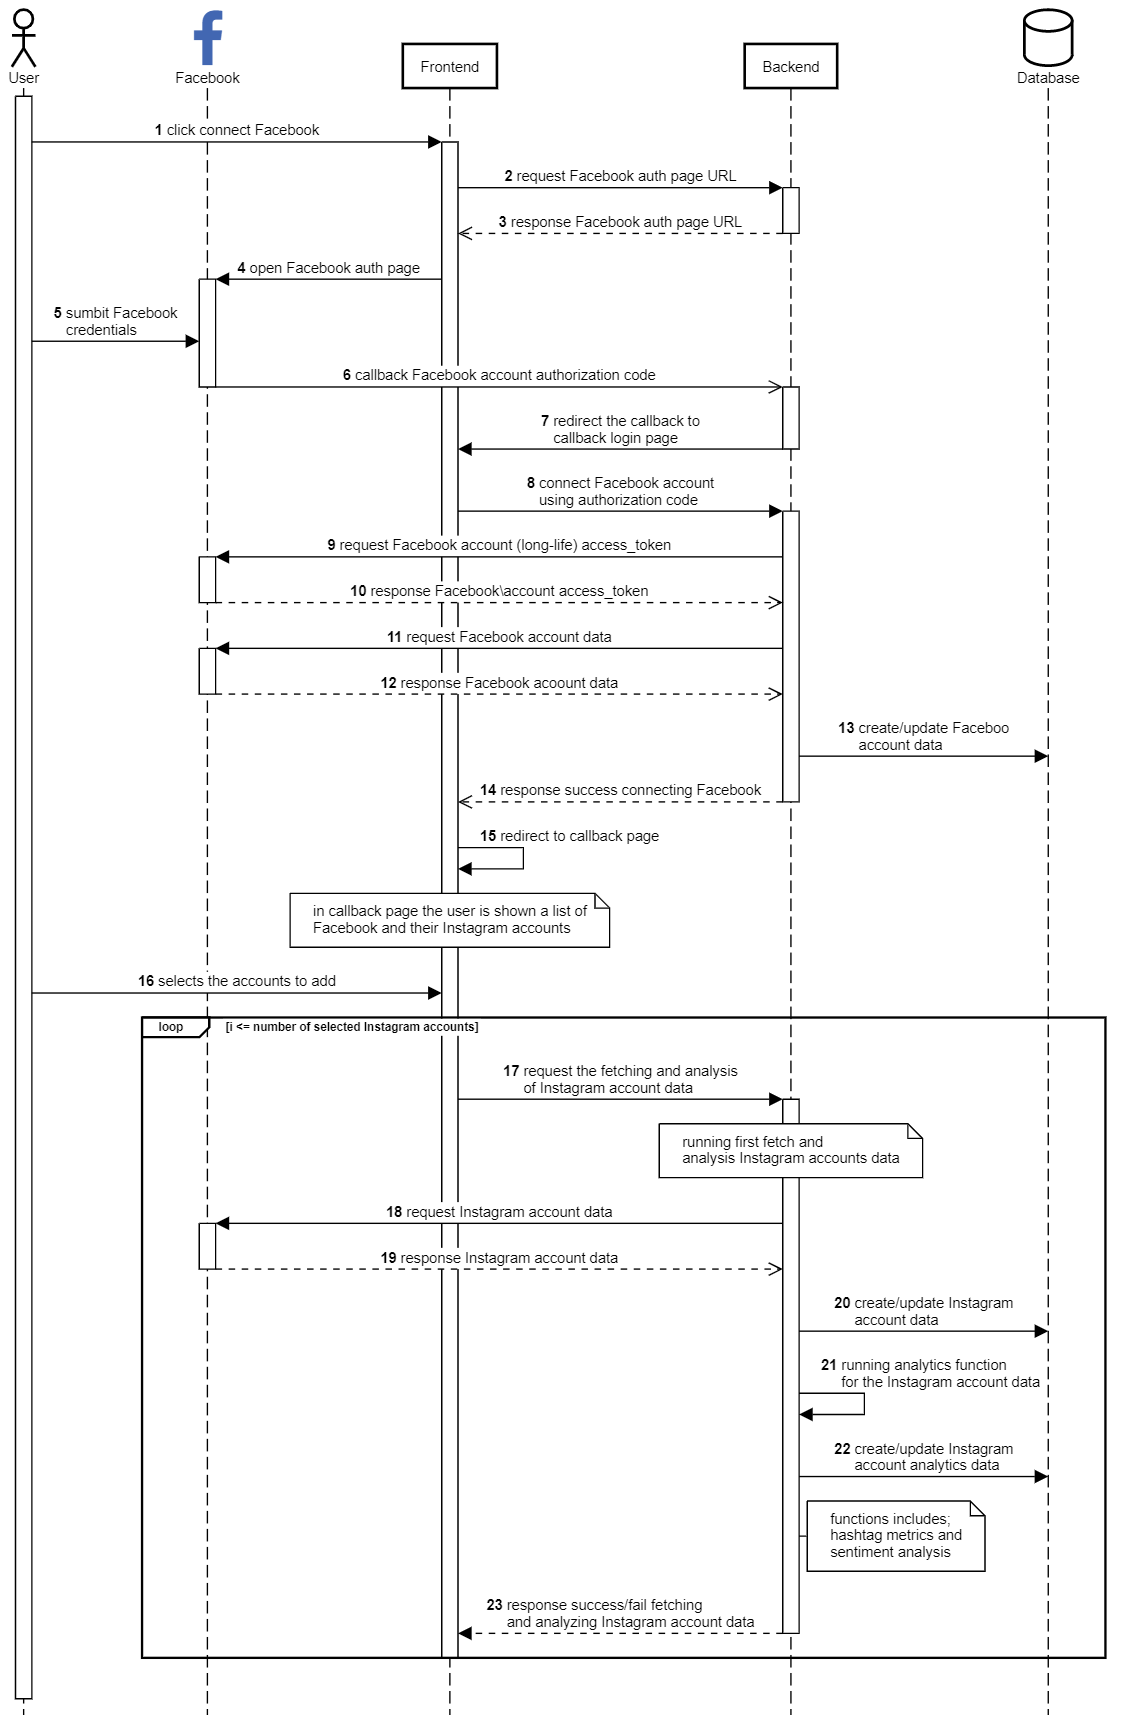
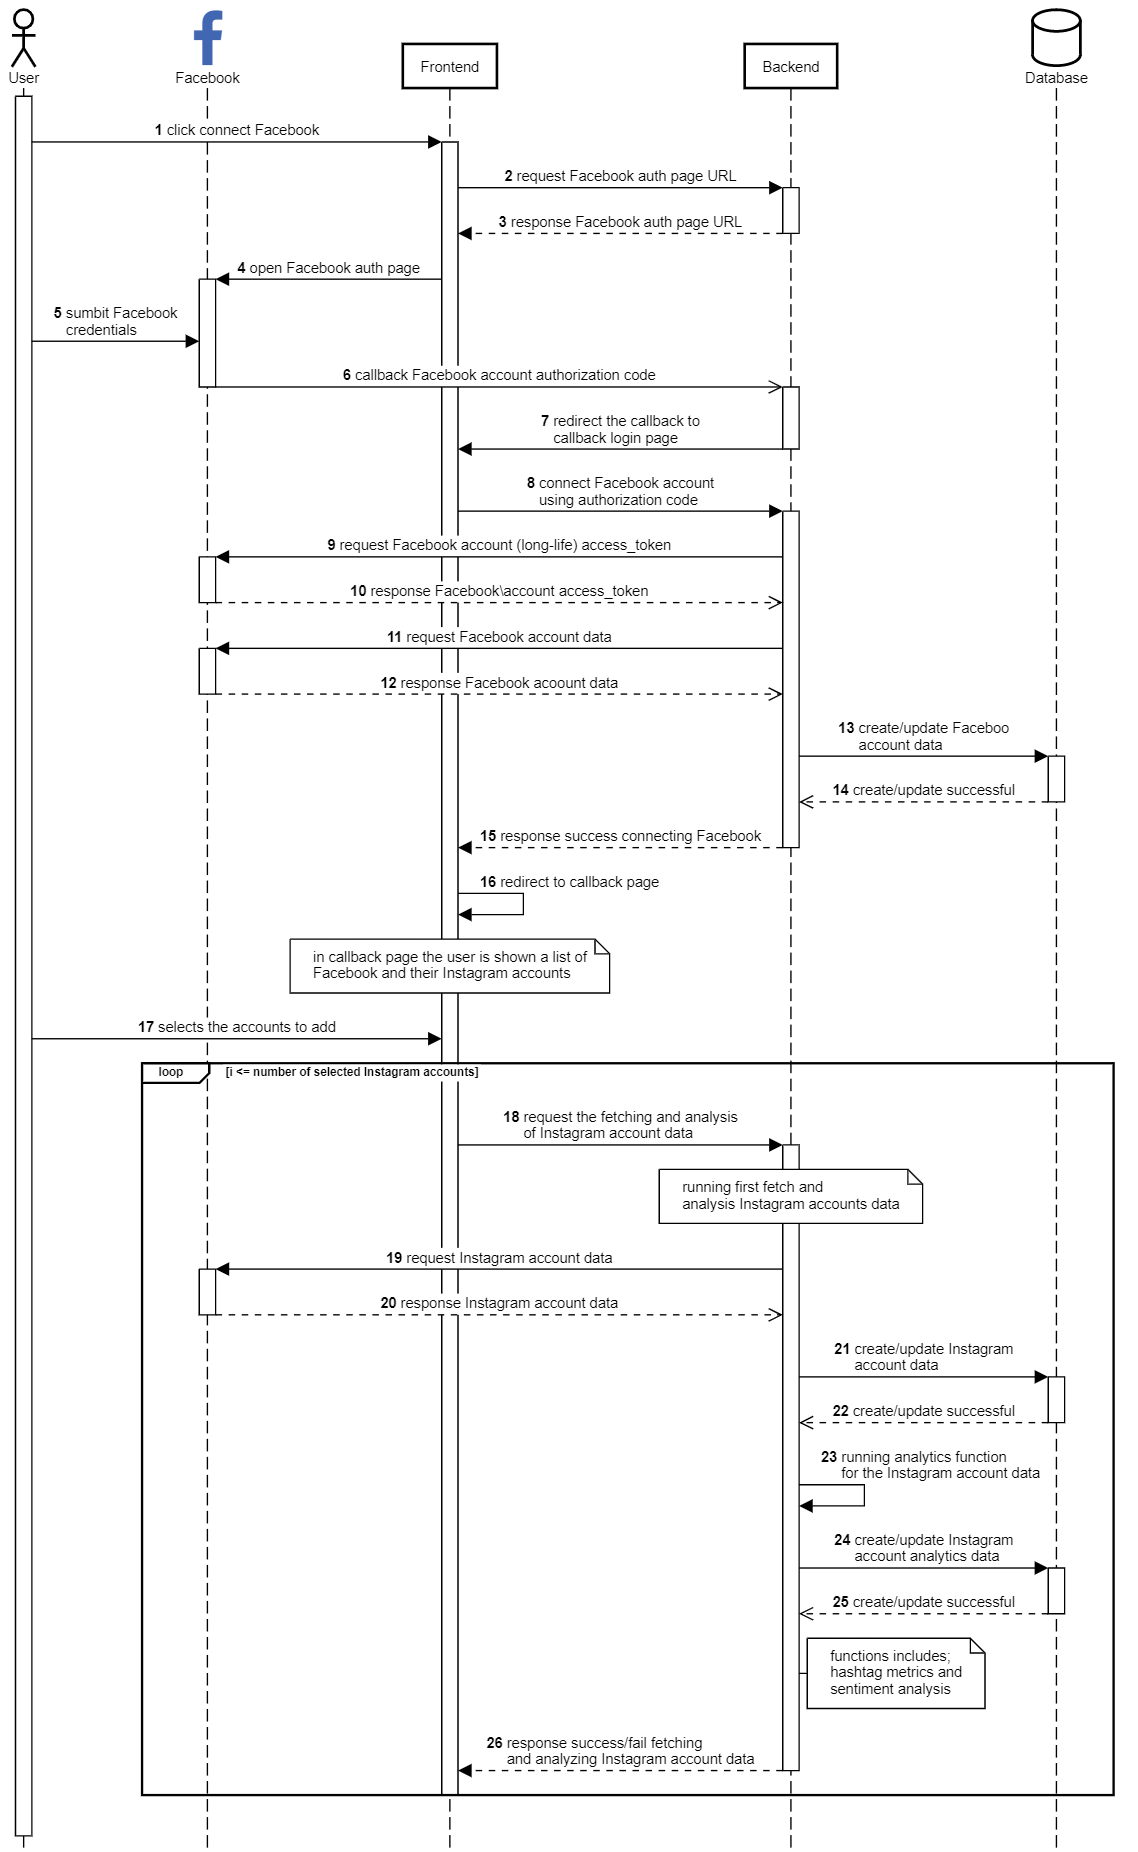
feature(feature): modify facebook connect sequence for database activation

Changed region(s): [[0.0, 0.0, 0.9991, 1.0], [0.1249, 0.0, 0.3122, 0.0927], [0.1561, 0.2781, 0.2186, 0.4017]]

diff --git a/docs/source/Toba/cekbrand/architecture/feature/facebook-connect.rst b/docs/source/Toba/cekbrand/architecture/feature/facebook-connect.rst
@@ -23,14 +23,17 @@ Berikut adalah diagram alur yang mewakili usecase ini disertai penjelasannya.
 11. Backend menggunakan access token yang didapatkan sebelumnya untuk melakukan request data akun Facebook pengguna.
 12. Facebook mengembalikan data akun Facebook pengguna.
 13. Backend menyimpan data akun Facebook pengguna tersebut ke dalam database.
-14. Backend menginfokan ke Frontent bahwa proses connect facebook berhasil.
-15. Frontend mengalihkan pengguna ke halaman **Kelola Akun**.
-16. Pengguna memilih akun Instagram yang akan dihubungkan ke CekBrand Dashboard.
-17. Frontend menggunakan endpoint :ref:`fetch-ig-data` untuk melakuakn request mengambilan data akun Instagram pengguna.
-18. Backend melakuakn request data akun Instagram pengguna ke Facebook API.
-19. Facebook mengembalikan data akun Instagram tersebut.
-20. Backend menyimpan data akun Instagram tersebut ke database.
-21. Backend menjalankan fungsi analitik untuk akun Instagram tersebut.
-22. Backend menyimpan data hasil analitik ke database.
-23. Backend menginformasikan bahwa proses akuisisi data akun Instagram berhasil.
-24. Proses 17-23 dilakukan sebanyak akun Instagram yang dipilih.
+14. Penyimpanan data akun Facebook pengguna di database berhasil.
+15. Backend menginfokan ke Frontent bahwa proses connect facebook berhasil.
+16. Frontend mengalihkan pengguna ke halaman **Kelola Akun**.
+17. Pengguna memilih akun Instagram yang akan dihubungkan ke CekBrand Dashboard.
+18. Frontend menggunakan endpoint :ref:`fetch-ig-data` untuk melakuakn request mengambilan data akun Instagram pengguna.
+19. Backend melakuakn request data akun Instagram pengguna ke Facebook API.
+20. Facebook mengembalikan data akun Instagram tersebut.
+21. Backend menyimpan data akun Instagram tersebut ke database.
+22. Penyimpanan data akun Instagram di database berhasil.
+23. Backend menjalankan fungsi analitik untuk akun Instagram tersebut.
+24. Backend menyimpan data hasil analitik ke database.
+25. Penyimpanan data hasil analitik di database berhasil.
+26. Backend menginformasikan bahwa proses akuisisi data akun Instagram berhasil.
+27. Proses 17-23 dilakukan sebanyak akun Instagram yang dipilih.
